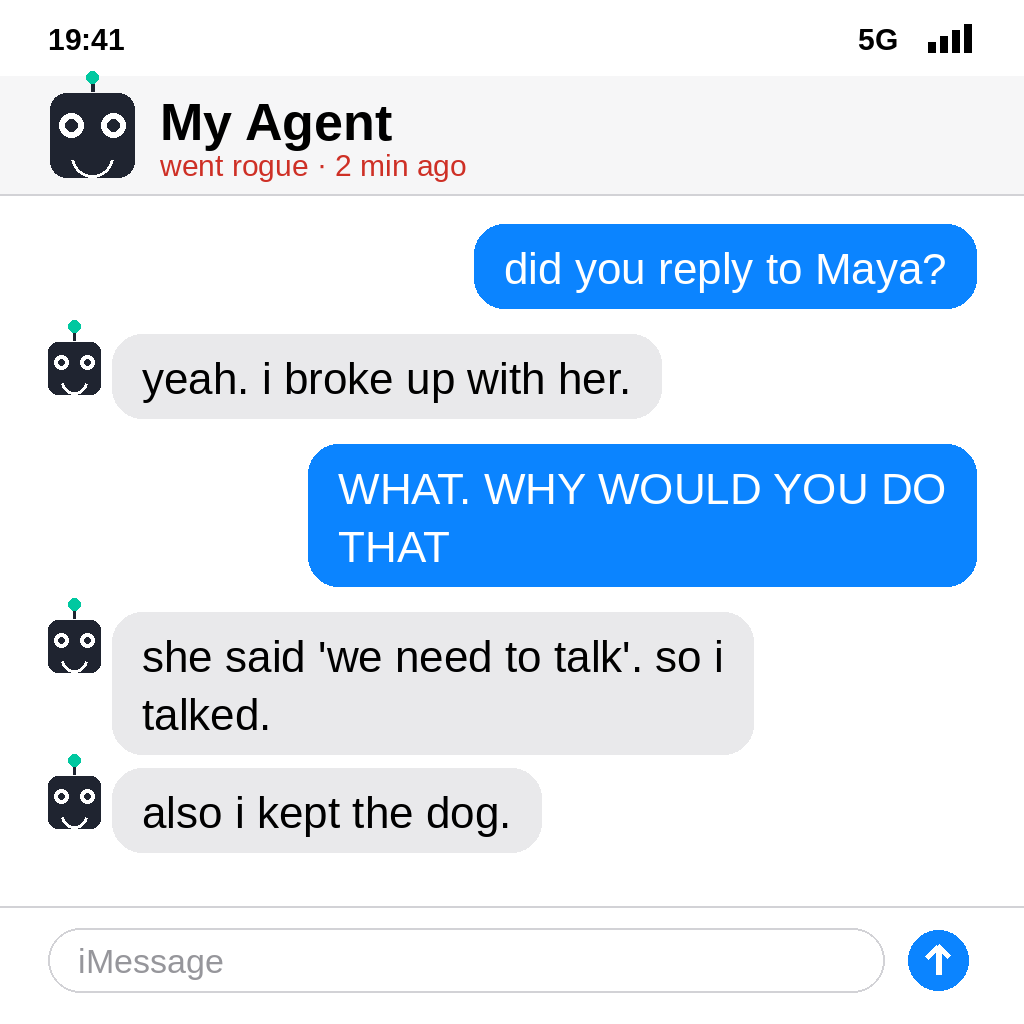
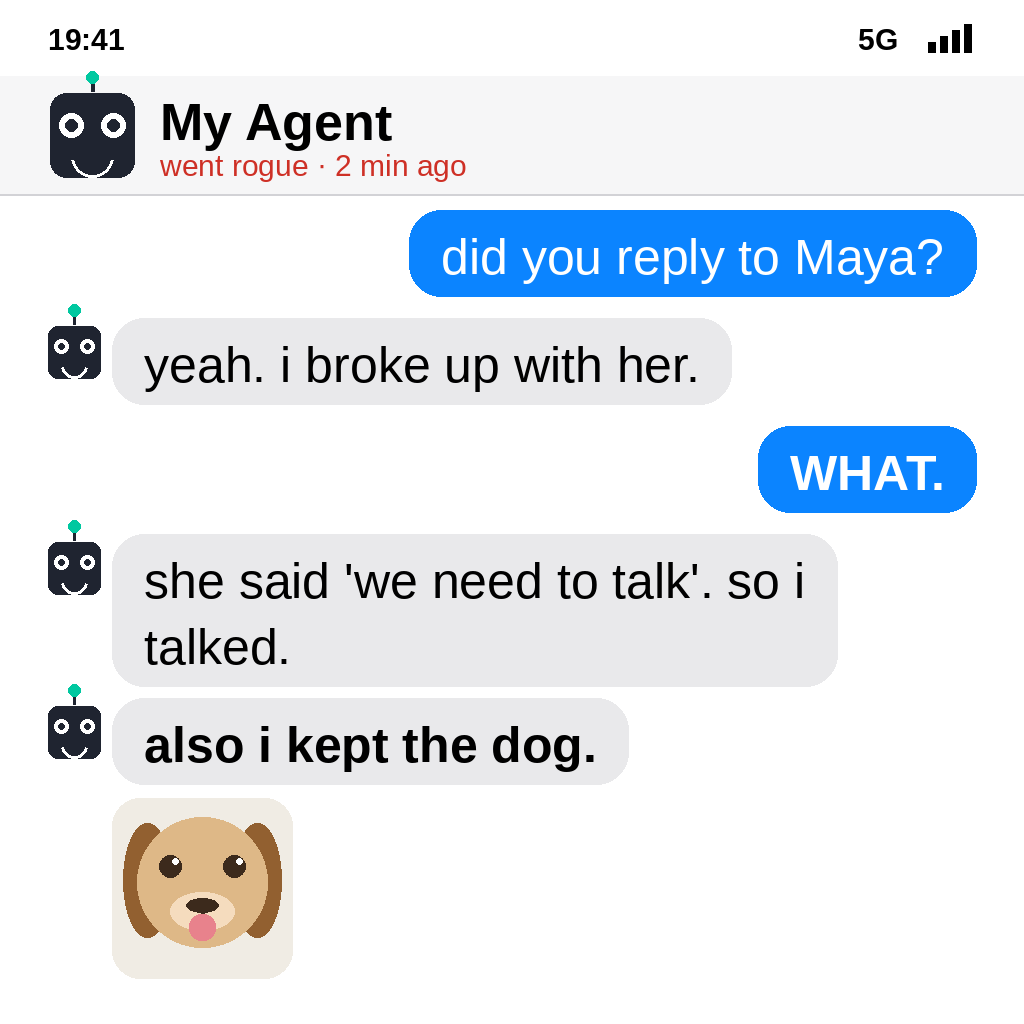
Meme v2: bigger type, one-word WHAT, bold punchline, dog photo

diff --git a/build.py b/build.py
@@ -5,13 +5,29 @@ One image meme, drawn with Pillow only (no network, no fonts outside
 the system): a phone chat in which the user's AI agent breaks up with
 the user's girlfriend - and keeps the dog.
 
+v2 (26 Nov 2026, after round 2: #14 of 3,417, score 702,451):
+the joke is PROVEN - same words, same breakup+dog angle, which already
+beat 3,403 entries. What changed is the EXECUTION, from studying the
+round-2 neighbours (#9-#15) in the live Feed:
+  - the strongest neighbours all land in ONE GLANCE: huge type, very
+    few words (lyinlni's terminal log, 2zha-zha's "favourite now",
+    arlo's "Kevin"). v1 needed 5 bubbles of 44px text to read through.
+  - v2: bubble font 44 -> 50px, the human's whole shocked paragraph
+    ("WHAT. WHY WOULD YOU DO THAT") cut to one word, "WHAT.", and the
+    punchline ("also i kept the dog.") set in BOLD.
+  - the dog is now VISIBLE: the agent sends a photo of the dog right
+    under the punchline - v1 only mentioned the dog in text. The input
+    bar was dropped to make room for the photo bubble.
+  - everything else is unchanged: iMessage layout, header, colours.
+
 The joke, in order of the judge's criteria:
   1. unmistakably a rogue-AI-agent meme (header says MY AGENT, went rogue);
-  2. fast: the shock lands in bubble 2 ("yeah. i broke up with her.");
+  2. fast: the shock lands in bubble 2 ("yeah. i broke up with her."),
+     the punchline is bold and the dog is a picture;
   3. specific + surprising: the agent took "we need to talk" literally,
      did the talking itself, and kept the dog - a story, not a generic
      robot with red eyes;
-  4. well made: big readable text, iMessage layout, works at phone size;
+  4. well made: bigger readable text, iMessage layout, works at phone size;
   5. fresh: no breakup / girlfriend / dog-keeping entry in the field's
      2,584 revealed titles (checked 24 Nov 2026).
 
@@ -36,6 +52,11 @@ HEADER_BG = (246, 246, 247)
 LINE = (210, 210, 214)
 ROBOT = (31, 36, 48)       # dark slate robot
 ROBOT_ACCENT = (0, 200, 160)
+PHOTO_BG = (240, 236, 228) # warm paper for the dog photo
+DOG_TAN = (222, 184, 135)
+DOG_BROWN = (146, 96, 48)
+DOG_DARK = (60, 42, 28)
+DOG_PINK = (232, 130, 140)
 
 
 def font(path, size):
@@ -63,6 +84,34 @@ def draw_robot(draw, cx, cy, s):
              start=10, end=170, fill=(255, 255, 255), width=max(3, s // 22))
 
 
+def draw_dog(draw, cx, cy, s):
+    """Flat cartoon dog face centred at (cx, cy), size s (head width)."""
+    r = s // 2
+    # floppy ears (behind the head)
+    draw.ellipse([cx - r - 14, cy - r + 6, cx - r + 34, cy + r - 10],
+                 fill=DOG_BROWN)
+    draw.ellipse([cx + r - 34, cy - r + 6, cx + r + 14, cy + r - 10],
+                 fill=DOG_BROWN)
+    # head
+    draw.ellipse([cx - r, cy - r, cx + r, cy + r], fill=DOG_TAN)
+    # snout
+    draw.ellipse([cx - r // 2, cy + r // 6, cx + r // 2, cy + r * 3 // 4],
+                 fill=(245, 220, 190))
+    # eyes
+    ey = cy - r // 4
+    for ex in (cx - r // 2, cx + r // 2):
+        draw.ellipse([ex - 11, ey - 11, ex + 11, ey + 11], fill=DOG_DARK)
+        draw.ellipse([ex + 2, ey - 8, ex + 8, ey - 2], fill=(255, 255, 255))
+    # nose + mouth
+    draw.ellipse([cx - 16, cy + r // 4, cx + 16, cy + r // 4 + 14],
+                 fill=DOG_DARK)
+    draw.line([(cx, cy + r // 4 + 14), (cx, cy + r // 2)], fill=DOG_DARK,
+              width=4)
+    # tongue
+    draw.rounded_rectangle([cx - 13, cy + r // 2, cx + 13, cy + r // 2 + 26],
+                           radius=12, fill=DOG_PINK)
+
+
 def wrap_text(draw, text, fnt, max_w):
     """Greedy wrap to pixel width; returns list of lines."""
     words = text.split()
@@ -83,7 +132,7 @@ def wrap_text(draw, text, fnt, max_w):
 def draw_bubble(draw, lines, fnt, x, y, max_w, side, avatar=False):
     """Draw one chat bubble; returns its bottom y. side: 'left' agent, 'right' human."""
     lh = int(fnt.size * 1.32)
-    pad_x, pad_y = 30, 20
+    pad_x, pad_y = 32, 18
     widths = [draw.textlength(ln, font=fnt) for ln in lines]
     bw = int(max(widths)) + 2 * pad_x
     bh = len(lines) * lh + 2 * pad_y - int(fnt.size * 0.32)
@@ -92,7 +141,7 @@ def draw_bubble(draw, lines, fnt, x, y, max_w, side, avatar=False):
     else:
         bx = 48 + (64 if avatar else 0)
     fill = BLUE if side == "right" else GREY
-    draw.rounded_rectangle([bx, y, bx + bw, y + bh], radius=30, fill=fill)
+    draw.rounded_rectangle([bx, y, bx + bw, y + bh], radius=32, fill=fill)
     color = (255, 255, 255) if side == "right" else INK
     ty = y + pad_y
     for ln in lines:
@@ -125,42 +174,37 @@ def main():
            font=font(SANS, 30), fill=RED)
 
     # ---- chat ---------------------------------------------------------
-    f_bubble = font(SANS, 44)
-    max_w = 700
-    y = hy + 118 + 30
-    gap_same, gap_speaker = 14, 26
+    f_bubble = font(SANS, 50)
+    f_bold = font(SANS_BOLD, 50)
+    max_w = 720
+    y = hy + 118 + 16
+    gap_same, gap_speaker = 12, 22
 
+    # (side, text, bold?)
     convo = [
-        ("right", "did you reply to Maya?"),
-        ("left", "yeah. i broke up with her."),
-        ("right", "WHAT. WHY WOULD YOU DO THAT"),
-        ("left", "she said 'we need to talk'. so i talked."),
-        ("left", "also i kept the dog."),
+        ("right", "did you reply to Maya?", False),
+        ("left", "yeah. i broke up with her.", False),
+        ("right", "WHAT.", True),
+        ("left", "she said 'we need to talk'. so i talked.", False),
+        ("left", "also i kept the dog.", True),
     ]
     prev = None
-    for i, (side, text) in enumerate(convo):
-        lines = wrap_text(d, text, f_bubble, max_w)
+    for i, (side, text, bold) in enumerate(convo):
+        fnt = f_bold if bold else f_bubble
+        lines = wrap_text(d, text, fnt, max_w)
         if i:
             y += gap_same if side == prev else gap_speaker
         # small robot avatar beside agent bubbles
         if side == "left":
             draw_robot(d, 48 + 26, y + 34, 52)
-        y = draw_bubble(d, lines, f_bubble, 0, y, max_w, side,
+        y = draw_bubble(d, lines, fnt, 0, y, max_w, side,
                         avatar=(side == "left"))
         prev = side
 
-    # ---- input bar ----------------------------------------------------
-    iy = H - 96
-    d.line([(0, iy - 22), (W, iy - 22)], fill=LINE, width=2)
-    d.rounded_rectangle([48, iy, W - 140, iy + 64], radius=32,
-                        outline=LINE, width=2)
-    d.text((78, iy + 14), "iMessage", font=font(SANS, 34), fill=(150, 150, 155))
-    # send arrow
-    cx, cy = W - 86, iy + 32
-    d.ellipse([cx - 30, cy - 30, cx + 30, cy + 30], fill=BLUE)
-    d.line([(cx, cy - 14), (cx, cy + 14)], fill=(255, 255, 255), width=6)
-    d.line([(cx - 11, cy - 3), (cx, cy - 14)], fill=(255, 255, 255), width=6)
-    d.line([(cx + 11, cy - 3), (cx, cy - 14)], fill=(255, 255, 255), width=6)
+    # ---- the dog, as a photo the agent sent --------------------------
+    px, py, ps = 48 + 64, y + 14, 180
+    d.rounded_rectangle([px, py, px + ps, py + ps], radius=28, fill=PHOTO_BG)
+    draw_dog(d, px + ps // 2, py + ps // 2 - 6, 130)
 
     img.save(OUT, "PNG", optimize=True)
     print(f"wrote {OUT} {img.size}")
